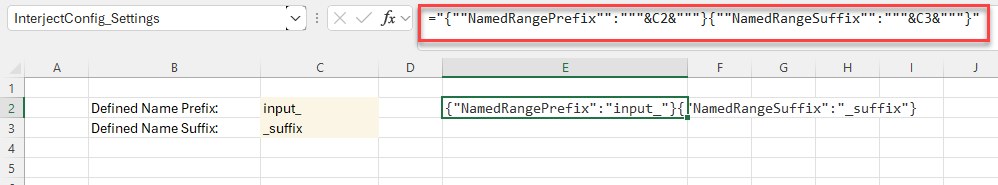
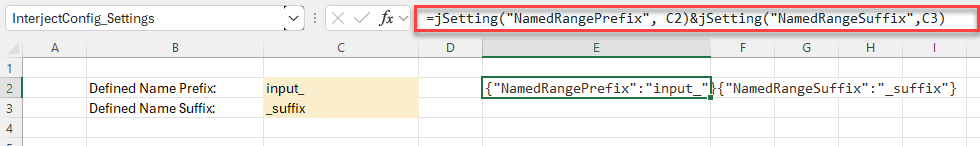
small update on quick tools names page - added jsetting

diff --git a/wIndex/QuickTools-Names.md b/wIndex/QuickTools-Names.md
@@ -167,10 +167,10 @@ Interject can automatically have a prefix and/or suffix appended to a defined na
 ![](/images/QuickToolsNames/PrefixSuffix2.png)
 <br>
 
-**Step 4:** Interject will find any json pair in this named range to use. To have Excel format a json pair using the prefix and suffix set up, enter this in the cell:
+**Step 4:** Interject will find any json pair in this named range to use. To have Excel format a json pair using the prefix and suffix set up, you can use the Interject [jSetting](/wIndex/jSetting.html) function. This function automatically formats a pair into json form. In the cell with the named range, enter the following:
 
 ```bash
-="{""NamedRangePrefix"":"""&C2&"""}{""NamedRangeSuffix"":"""&C3&"""}"
+=jSetting("NamedRangePrefix", C2)&jSetting("NamedRangeSuffix",C3)
 ```
 
 The configurations are now set up.
